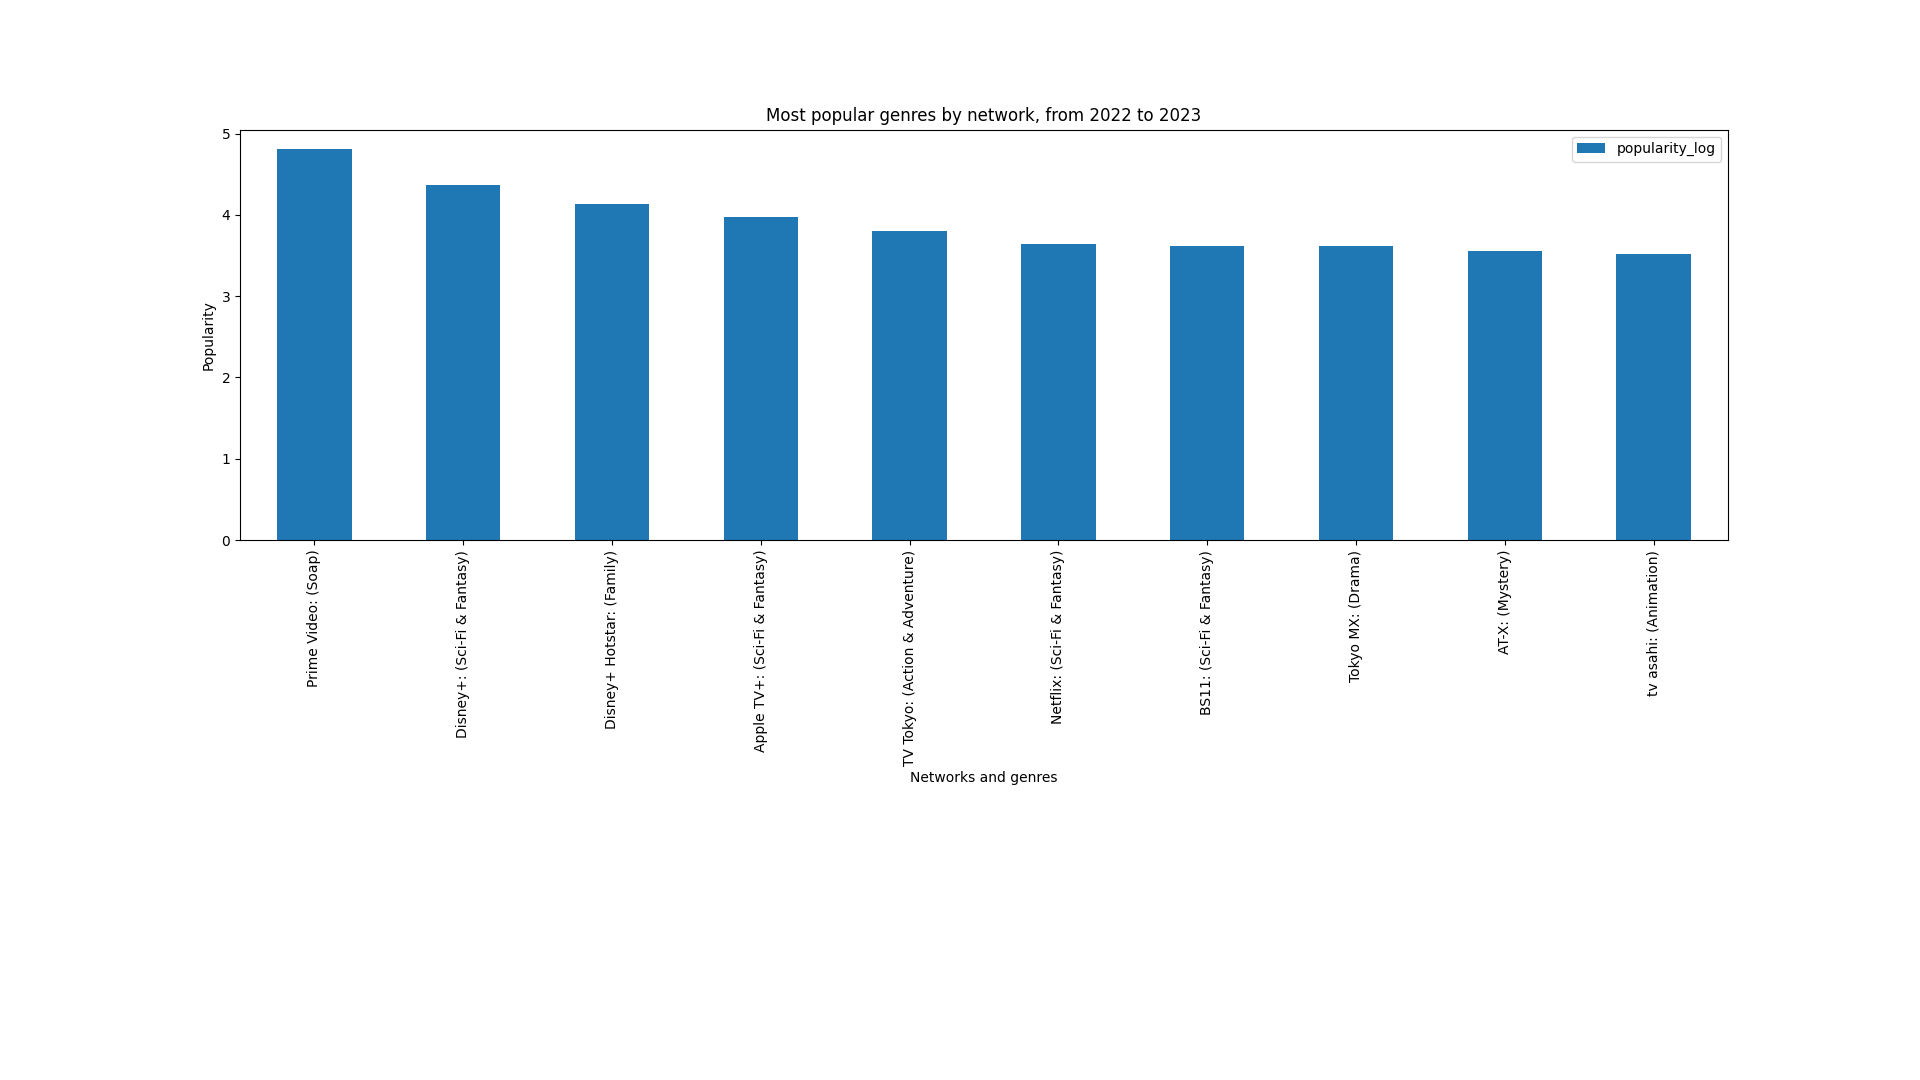
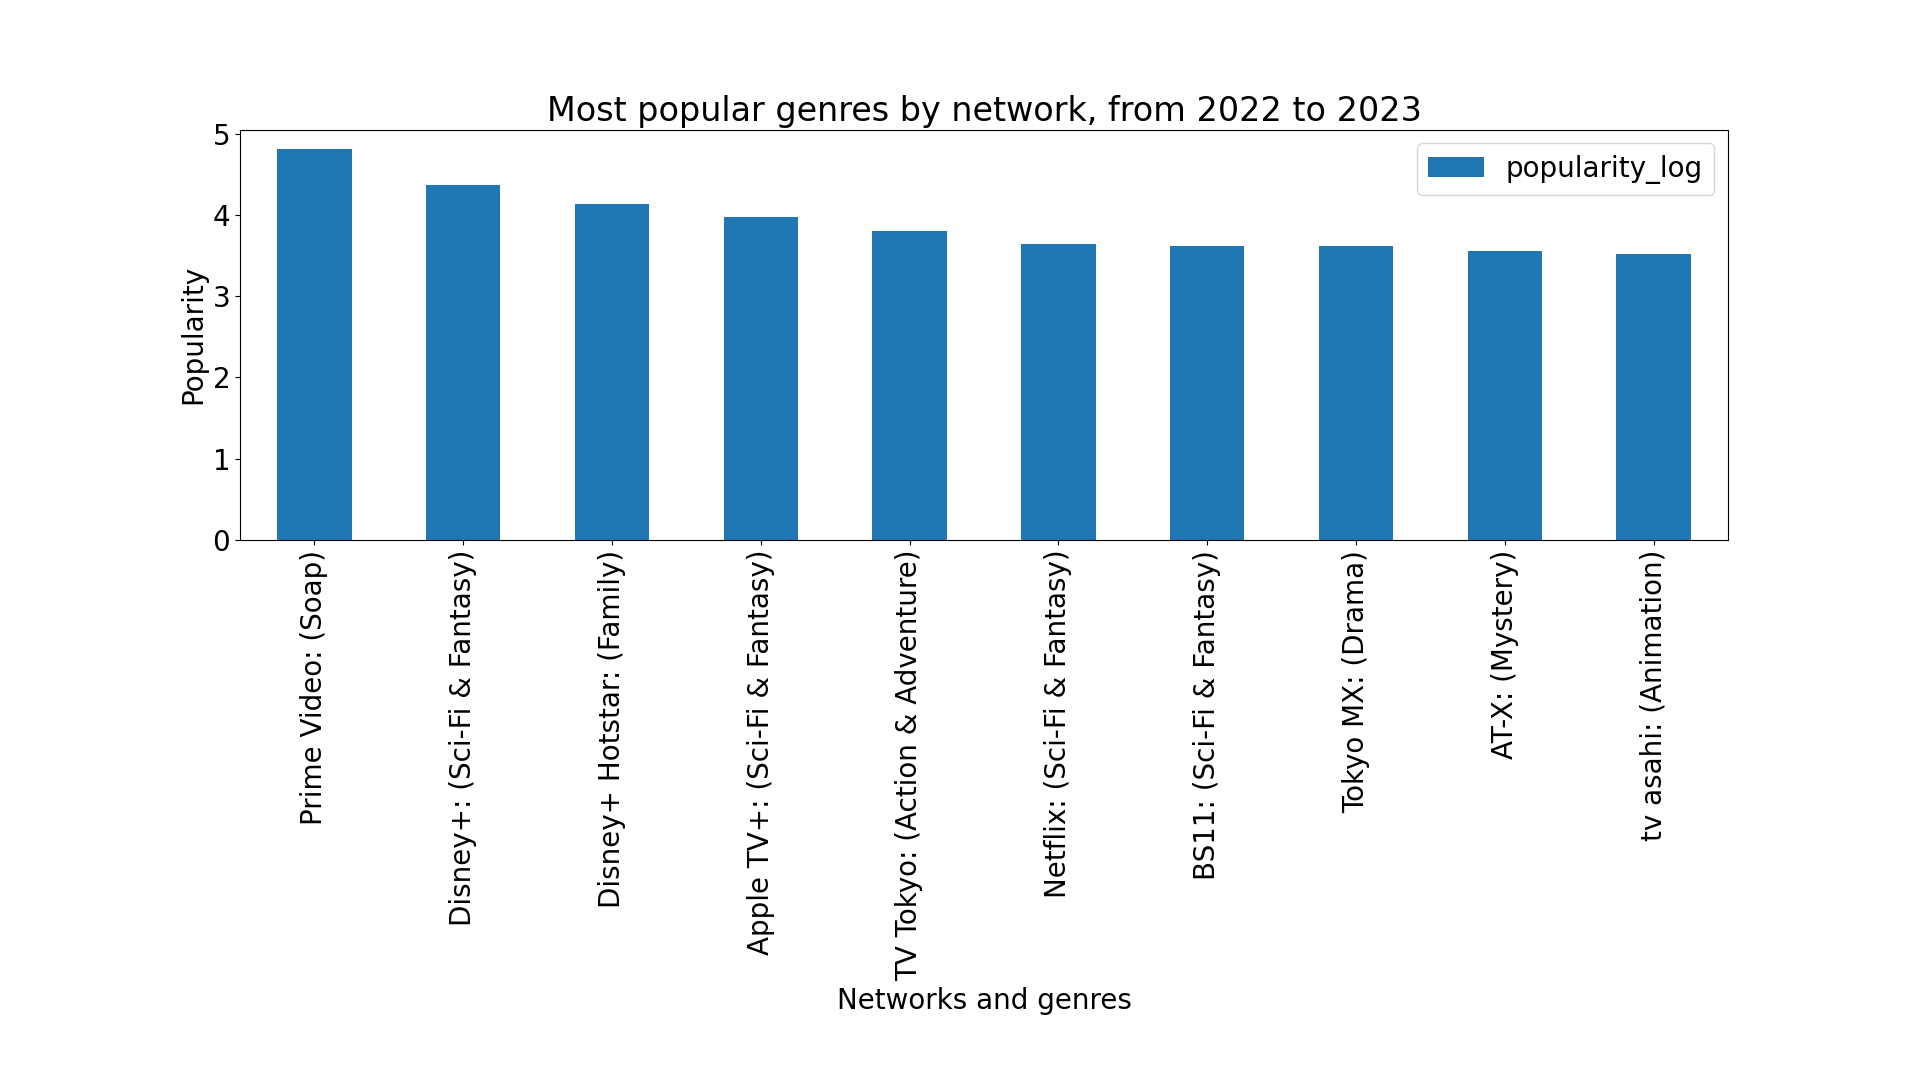
writing the Sphinx report

diff --git a/src/silvio_hypothesis.py b/src/silvio_hypothesis.py
@@ -209,11 +209,13 @@ def plot_bar(dataframe : pd.DataFrame, plt_title : str="plot", x_axis : str="x",
     
     #changing resolution
     figure = plt.subplots(figsize=(19.2, 10.8))  
-    dataframe.plot.bar(title=plt_title, ax=figure[1])
+    dataframe.plot.bar(title=plt_title, ax=figure[1], fontsize=20)
+    plt.rcParams.update({'font.size': 20})
     
     figure[1].set_xlabel(x_axis)
     figure[1].set_ylabel(y_axis)
     plt.subplots_adjust(bottom=0.5)
+    plt.rcParams.update({'font.size': 20})
     
     plt.savefig(f"./output/{plt_title}.png", dpi=100)
     plt.close()

diff --git a/docs/source/second_hypothesis.rst b/docs/source/second_hypothesis.rst
@@ -1,2 +1,113 @@
 Second Hypothesis
 ==================
+
+The basics of the hypothesis
+++++++++++++++++++++++++++++
+Let's first remember our second hypothesis:
+When it comes to genres, networks have different "favorites", or better said, they tend to have a 
+predominant type of genre for their shows.
+
+To start with, think of the shows as divided in groups: The label of the groups are all the network
+names we have in our dataset. Then, for every "network group", we count the ocurrences of each 
+genre. A show with two genres, for instance, will count as +1 for both genres. With that, we have 
+a new dataset: genres by network.
+
+Our three ways of counting: popularity, votes and frequency
++++++++++++++++++++++++++++++++++++++++++++++++++++++++++++
+We could, now, ask ourselves: but how do we decide which genre is the favorite? We have the network
+groups, but any of them have a lot of different genres to consider. The way we'll be approaching 
+this question is by considering the absolute value of the genres in three different categories, 
+that we'll call "columns". We'll see if the top 10 networks - that is, the 10 networks with the 
+highest value in the respective columns we will be considering - have something in common, most 
+specifically their favorite genre, and, if not, we'll be able to conclude that our hypothesis is 
+reasonable - or maybe not.
+
+Frequency
+---------
+Here, frequency stands to "how many series of that genre have been produced". As we can filter our 
+dataset as we please, we'll use the range of data that fits this criteria:
+
+1. The networks with top 10 most frequent genres, considering just networks that have at least 100 shows
+2. The same as the previous one, but considering only shows which aired, for the first time, between 2022 and 2023
+3. Again, the same as before, but considering shows which aired between 2023 and 2024
+
+You can see the result of the filtering, for each of the previous topics, in the plots below
+
+.. image:: ../output/Most\ frequent\ genres\ by\ network.png
+
+.. image:: ../output/Most\ frequent\ genres\ by\ network,\ from\ 2022\ to\ 2023.png
+
+.. image:: ../output/Most\ frequent\ genres\ by\ network,\ from\ 2023\ to\ 2024.png
+
+As you can see in the plots, some networks indeed follow a tendency to have a specific genre as 
+their most frequent one (note Drama and Animation taking the scene in all the charts). But, at 
+the same time, we can feel a little disappointed: the networks don't have a different genre, 
+between them, as their favorite. Indeed, it seems like the other way around: the favorite genre 
+of those networks appears be the same in a lot of them, what suggests the existance of a group 
+of genres which are mainly prefered above all others.
+
+Popularity
+----------
+Popularity is a measure used by TMDB (the online database from where our data came from), which 
+calculates the importance of a show based in some statistics of the site, including:
+
+* Number of user votes for the day
+* Number of page views for the day
+* Number of users who marked it as a "favourite" for the day
+* Number of users who added it to their "watchlist" for the day
+* Next/last episode of the show to air date
+* Number of total user votes
+* Previous days score
+
+To read more, you can access their `docs page <https://developer.themoviedb.org/docs/popularity-and-trending>`_. 
+That being said, let's go the the analysis.
+
+This time, we'll take in account the top series based in their average popularity score. In short,
+the filters used are:
+
+1. The top 10 networks with most popular genres, considering just networks which have, at least, 100 shows
+2. Like before, the top 10 networks with the same filters as above, but airing between 2022 and 2023
+3. At last, the top 10 networks with the same filtering, but airing from 2023 to 2024
+
+.. image:: ../output/Most\ popular\ genres\ by\ network.png
+
+.. image:: ../output/Most\ popular\ genres\ by\ network,\ from\ 2022\ to\ 2023.png
+
+.. image:: ../output/Most\ popular\ genres\ by\ network,\ from\ 2023\ to\ 2024.png
+
+This time, there ins't a strong predominance of some genres above all others. But, as you may 
+notice, Sci-Fi & Fantasy, along with Soap, have a high number of ocurrences: they take place in
+50% of all the plots. One important thing to notice is the difference between the data we got 
+from the frequency plots to the data we got here: the favorite genres aren't the same, for the
+same networks! That seems odd, and even makes we doubt the veracity of our hypothesis. But, at the
+same time, we could just argue that, even if these genres are more popular than Drama and 
+Animation, maybe they don't have the cost-benefit necessary for the networks to produce them
+massively.
+
+Vote average
+------------
+Last but not least, we have vote average: it stands for the average of the ratings for each genre. 
+Simple as that. For the filtering, we go as always:
+
+1. Top 10 networks with highest vote average, considering just networks with at least 100 shows.
+2. Top 10 networks following the filter above, but that aired between 2022 and 2023
+3. The same as above, but airing between 2023 and 2024
+
+.. image:: ../output/Most\ voted\ genres\ by\ network.png
+
+.. image:: ../output/Most\ voted\ genres\ by\ network,\ from\ 2022\ to\ 2023.png
+
+.. image:: ../output/Most\ voted\ genres\ by\ network,\ from\ 2023\ to\ 2024.png
+
+This time, we can't see a pattern in the data. The values of the highest vote averages are very 
+close from one position to another and the genres don't repeat at all. At first we can, again, 
+just assume that we were wrong in speculating about this from the beggining. Or, if we insist a 
+little more, we can try to find a relation between all of our data. See: this non-uniformity in 
+the data can be pointing us the exaplanation for why our frequency and popularity plots haven't 
+matched at all: maybe there isn't a formula to make the best shows, and it all depends on the 
+singularities of the show itself. Then, if we imagine a little further, while the networks 
+persists in doing the same type of shows (maybe because it's easy money, or because they're more 
+specialized in certain types of productions), they also create trending series to engage their 
+public or  buy the rights of some well-known shows which have a higher popularity. At last, 
+there is something we could almost certainly assert: the most popular shows and the most producted 
+ones are, in fact, different.

diff --git a/docs/source/third_hypothesis.rst b/docs/source/third_hypothesis.rst
@@ -1,2 +1,51 @@
 Third Hypothesis
 ================
+
+The third hypothesis is: "Given a rating interval, popularity varies according to the streaming 
+service (network)." The code that tests this hypothesis uses the function "third_filter" from the 
+"filter.py" file to remove rows of series with low vote counts and streaming services with a small 
+total number of series. Then, it generates multiple plots for each rating average interval, 
+grouping the streaming services by the average popularity of their series.
+
+Filtering and tests
+--------------------
+
+We made some tests of how the data behavior after the filter function, with both parameters set to 
+0 (meaning only values greater than 1 are considered), we found that 47,000 lines were preserved. 
+However, increasing the values slightly to 10 in both parameters cases caused a drastic reduction 
+to 8,800 lines, indicating that a large portion of the data comes from lesser-known services and 
+shows. To focus on the more interesting streaming services and meaningful data, we change the 
+parameters to 10 for series per service and 100 for votes per series, which resulted in a dataset 
+of 2,100 lines.
+
+The graphs obtained
+-------------------
+
+graph0
+graph1
+graph2
+graph3
+graph4
+graph5
+graph6
+
+Results from data
+-----------------
+
+The first three graphs are not useful since the intervals are almost empty. However, the others can 
+provide interesting insights. If we ignore the one or two highest results from each graph, a 
+continuity pattern seems to emerge, indicating that they can be approximated by a function. 
+Moreover, the most well-known streaming services, such as Netflix, Prime Video, HBO, and Disney+, 
+are not the ones with the highest average popularity, probably because they have many tv shows with 
+low popularity, decreasing the average popularity, while other networks not so known have less tv 
+show, but very popular, also the outliers shows, like "Greys anatomy" can change drastically the 
+average popularity. Another observation is that streaming services typically do not maintain a 
+consistent popularity across different intervals of rating.
+
+Discussions and hypothesis results
+----------------------------------
+
+From the graphs we can see that the average popularity changes through the different networks, 
+and the data do not looks to have a linear or random distribution, but forms a exponencial or 
+Power law distribution, where few networks have a large popularity and most have a average or 
+lower popularity.

diff --git a/docs/source/introduction.rst b/docs/source/introduction.rst
@@ -1,2 +1,20 @@
 Introduction
 ============
+In this repository, we created a package of python modules in order to analyze the TMDB TV Shows Dataset.
+You can find this data in `Kaggle <https://www.kaggle.com/datasets/asaniczka/full-tmdb-tv-shows-dataset-2023-150k-shows?resource=download>`_.
+We have three main hypotheses:
+
+1. TV Shows with less episodes have a higher vote average.
+2. Networks have a tendency to have different favorite genres (a higher production rate of a specific genre).
+3. Considering shows with similar vote averages, their popularities change based in their networks.
+
+You can read about our analyses and our conclusions following the index bellow.
+
+Analyses
+========
+.. toctree::
+   :maxdepth: 3
+
+   first_hypothesis
+   second_hypothesis
+   third_hypothesis

diff --git a/docs/source/index.rst b/docs/source/index.rst
@@ -8,18 +8,18 @@ lp-tmdb documentation
 
 Welcome to the lp-tmdb documentation! Below, you can access all our content, which includes:
 
-* Analysis of the data collected from the hypotheses
+* Analysis of the data collected from our hypotheses
 * Documentation of the .py modules used to collect the data
 
 |
 
-Analysis:
+Analyses:
 =========
 .. toctree::
    :maxdepth: 2
 
    introduction
-   analysis
+   
 
 |
 
@@ -34,8 +34,8 @@ Contents:
    
 |
 
-Indices and tables
-==================
+Indices and tables:
+===================
 
 * :ref:`genindex`
 * :ref:`modindex`
